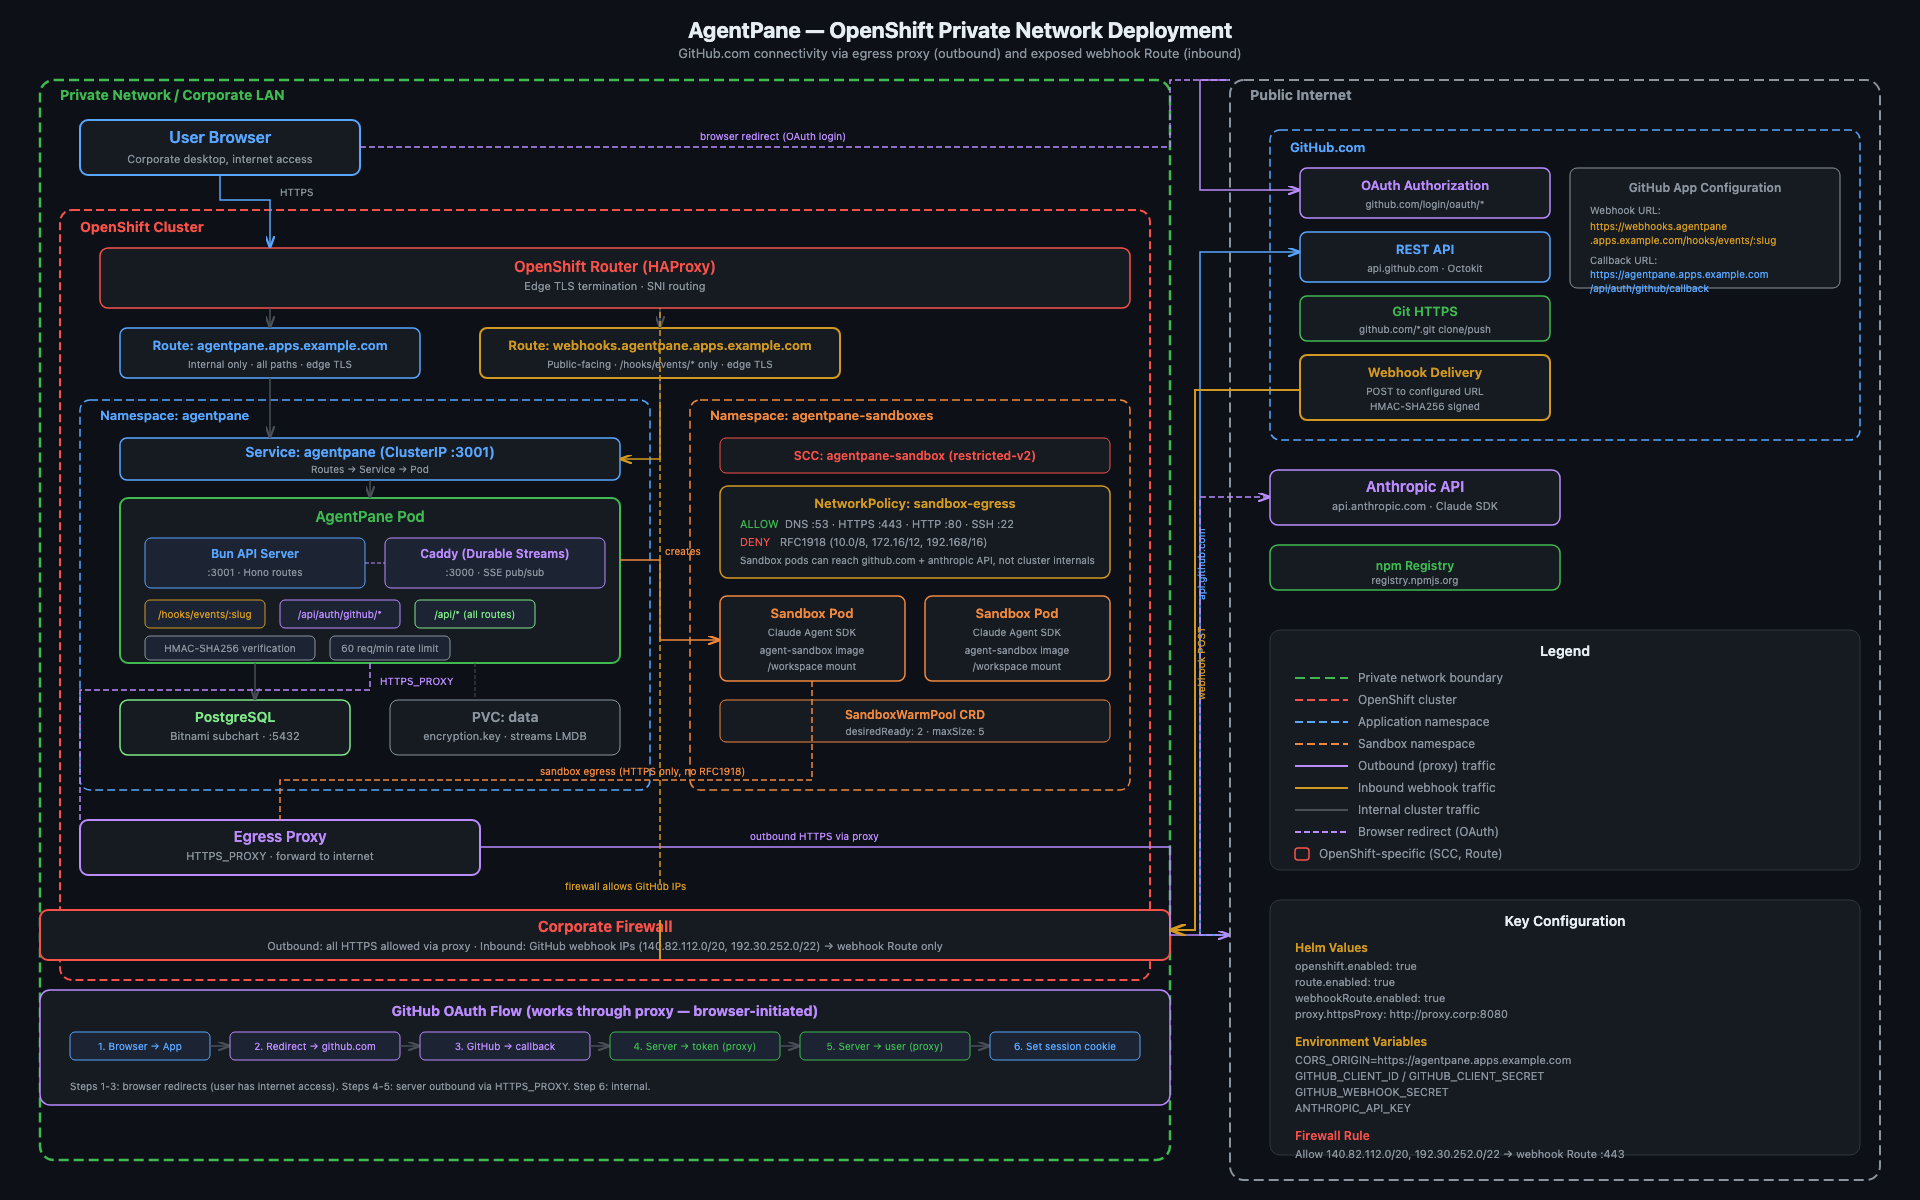
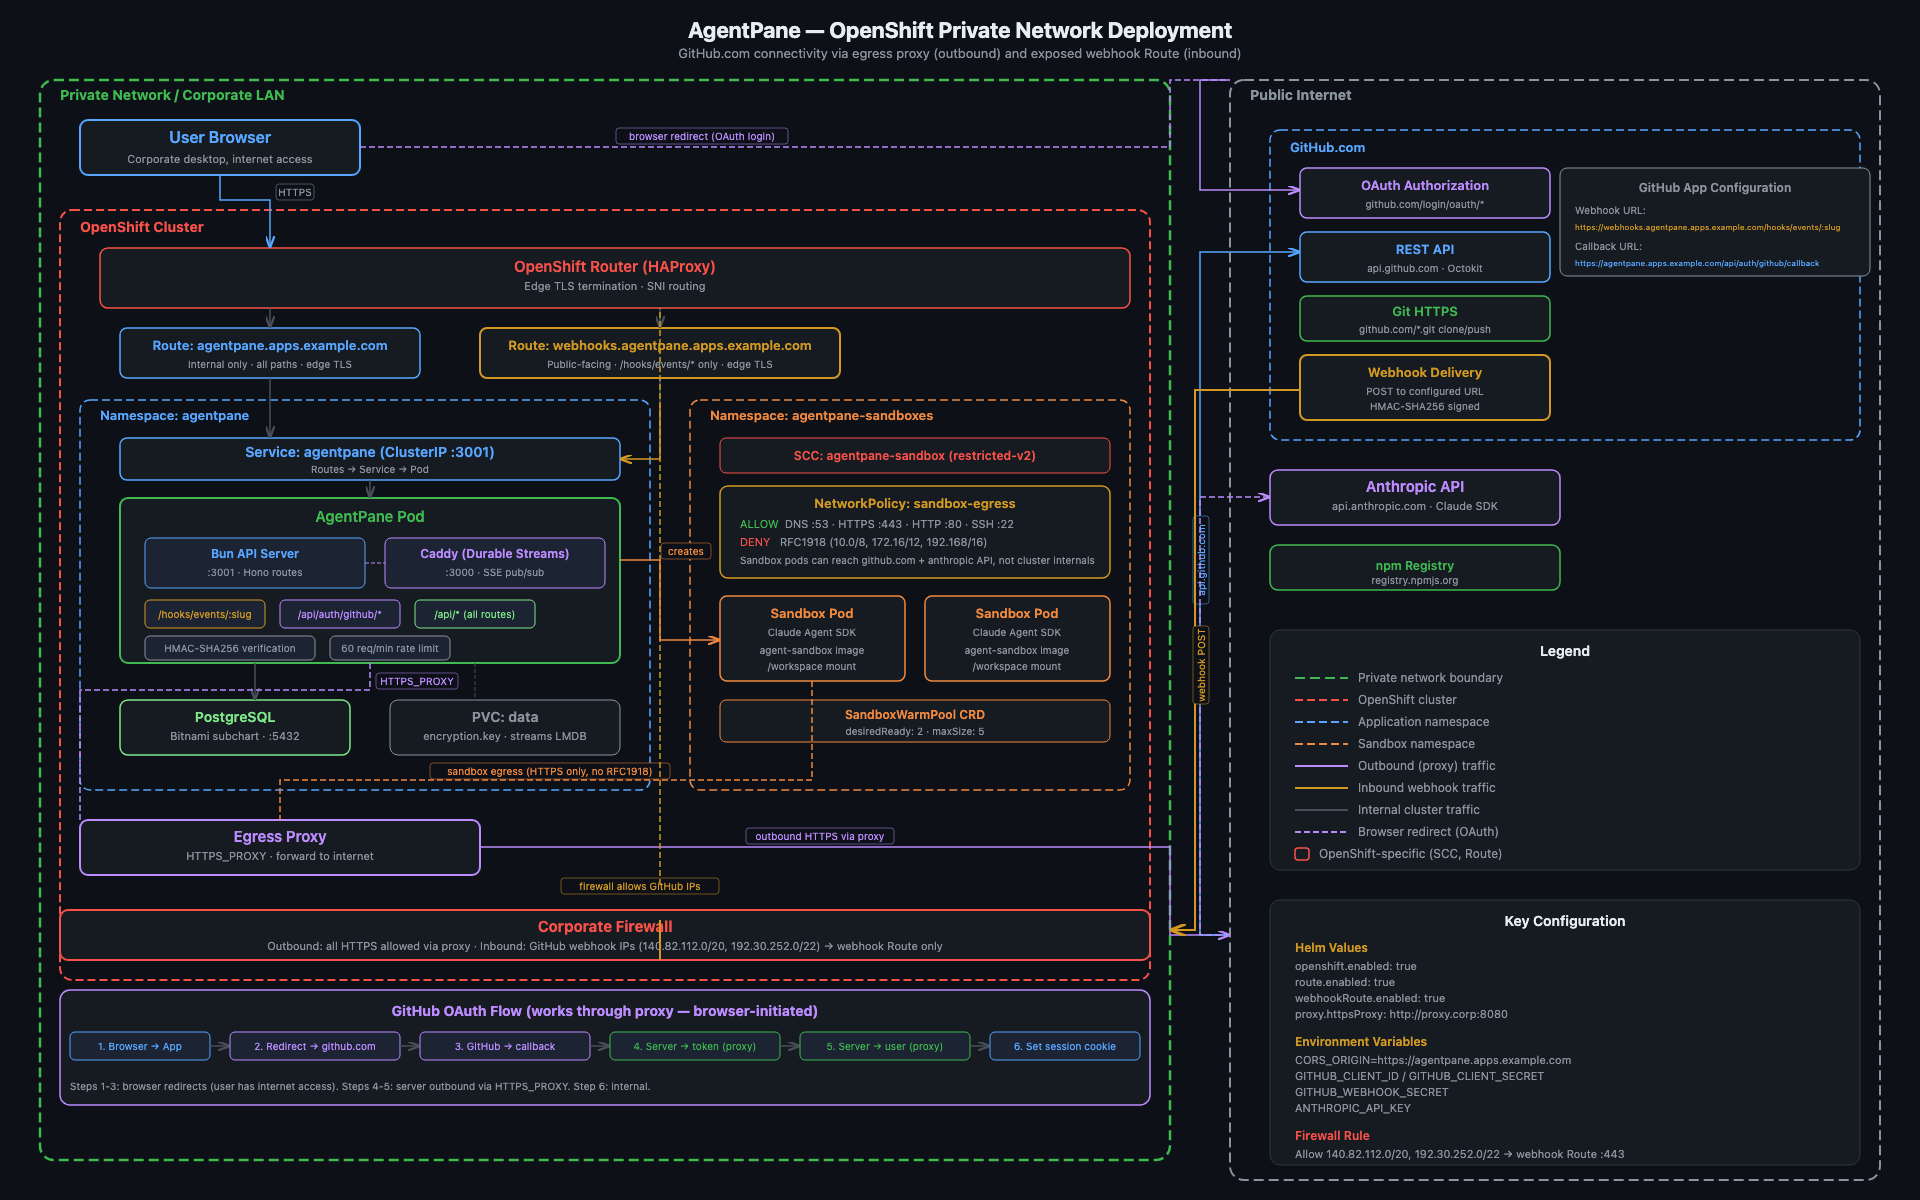
docs: update OpenShift deployment diagram and test results

diff --git a/docs/_openshift-deployment.html b/docs/_openshift-deployment.html
@@ -76,7 +76,8 @@ svg { display: block; }
 
 <!-- Connection: Browser -> Router -->
 <path d="M 220 175 L 220 200 L 270 200 L 270 248" fill="none" stroke="#58a6ff" stroke-width="1.5" marker-end="url(#arrow-blue)"/>
-<text x="280" y="196" fill="#8b949e" font-size="10">HTTPS</text>
+<rect x="276" y="184" width="38" height="16" rx="3" fill="#0d1117" stroke="#8b949e" stroke-width="0.5"/>
+<text x="295" y="196" text-anchor="middle" fill="#8b949e" font-size="10">HTTPS</text>
 
 <!-- ====== AGENTPANE NAMESPACE ====== -->
 <rect x="80" y="400" width="570" height="390" rx="10" fill="none" stroke="#58a6ff" stroke-width="1.5" stroke-dasharray="8,4"/>
@@ -180,7 +181,8 @@ svg { display: block; }
 
 <!-- Connection: AgentPane -> Sandbox Pods -->
 <path d="M 620 560 L 660 560 L 660 640 L 720 640" fill="none" stroke="#f0883e" stroke-width="1.5" marker-end="url(#arrow-coral)"/>
-<text x="665" y="555" fill="#f0883e" font-size="10">creates</text>
+<rect x="661" y="543" width="50" height="16" rx="3" fill="#0d1117" stroke="#f0883e" stroke-width="0.5"/>
+<text x="686" y="555" text-anchor="middle" fill="#f0883e" font-size="10">creates</text>
 
 <!-- ====== EGRESS PROXY ====== -->
 <rect x="80" y="820" width="400" height="55" rx="8" fill="#161b22" stroke="#bc8cff" stroke-width="2"/>
@@ -189,14 +191,16 @@ svg { display: block; }
 
 <!-- Connection: Pod -> Egress Proxy -->
 <path d="M 370 663 L 370 690 L 80 690 L 80 820" fill="none" stroke="#bc8cff" stroke-width="1.5" stroke-dasharray="6,3"/>
-<text x="380" y="685" fill="#bc8cff" font-size="10">HTTPS_PROXY</text>
+<rect x="376" y="673" width="82" height="16" rx="3" fill="#0d1117" stroke="#bc8cff" stroke-width="0.5"/>
+<text x="417" y="685" text-anchor="middle" fill="#bc8cff" font-size="10">HTTPS_PROXY</text>
 
 <!-- Connection: Sandbox -> Egress Proxy (via network policy) -->
 <path d="M 812 681 L 812 780 L 280 780 L 280 820" fill="none" stroke="#f0883e" stroke-width="1.5" stroke-dasharray="6,3"/>
-<text x="540" y="775" fill="#f0883e" font-size="10">sandbox egress (HTTPS only, no RFC1918)</text>
+<rect x="430" y="763" width="240" height="16" rx="3" fill="#0d1117" stroke="#f0883e" stroke-width="0.5"/>
+<text x="550" y="775" text-anchor="middle" fill="#f0883e" font-size="10">sandbox egress (HTTPS only, no RFC1918)</text>
 
 <!-- ==================== FIREWALL ==================== -->
-<rect x="40" y="910" width="1130" height="50" rx="8" fill="#161b22" stroke="#f85149" stroke-width="2"/>
+<rect x="60" y="910" width="1090" height="50" rx="8" fill="#161b22" stroke="#f85149" stroke-width="2"/>
 <text x="605" y="932" text-anchor="middle" fill="#f85149" font-size="15" font-weight="700">Corporate Firewall</text>
 <text x="605" y="950" text-anchor="middle" fill="#8b949e" font-size="11">Outbound: all HTTPS allowed via proxy · Inbound: GitHub webhook IPs (140.82.112.0/20, 192.30.252.0/22) → webhook Route only</text>
 
@@ -230,14 +234,12 @@ svg { display: block; }
 <text x="1425" y="410" text-anchor="middle" fill="#8b949e" font-size="10">HMAC-SHA256 signed</text>
 
 <!-- GitHub App config note -->
-<rect x="1570" y="168" width="270" height="120" rx="7" fill="#161b22" stroke="#8b949e" stroke-width="1"/>
-<text x="1705" y="192" text-anchor="middle" fill="#8b949e" font-size="12" font-weight="600">GitHub App Configuration</text>
-<text x="1590" y="214" fill="#8b949e" font-size="10">Webhook URL:</text>
-<text x="1590" y="230" fill="#d29922" font-size="10">https://webhooks.agentpane</text>
-<text x="1590" y="244" fill="#d29922" font-size="10">.apps.example.com/hooks/events/:slug</text>
-<text x="1590" y="264" fill="#8b949e" font-size="10">Callback URL:</text>
-<text x="1590" y="278" fill="#58a6ff" font-size="10">https://agentpane.apps.example.com</text>
-<text x="1590" y="292" fill="#58a6ff" font-size="10">/api/auth/github/callback</text>
+<rect x="1560" y="168" width="310" height="108" rx="7" fill="#161b22" stroke="#8b949e" stroke-width="1"/>
+<text x="1715" y="192" text-anchor="middle" fill="#8b949e" font-size="12" font-weight="600">GitHub App Configuration</text>
+<text x="1575" y="214" fill="#8b949e" font-size="10">Webhook URL:</text>
+<text x="1575" y="230" fill="#d29922" font-size="8">https://webhooks.agentpane.apps.example.com/hooks/events/:slug</text>
+<text x="1575" y="250" fill="#8b949e" font-size="10">Callback URL:</text>
+<text x="1575" y="266" fill="#58a6ff" font-size="8">https://agentpane.apps.example.com/api/auth/github/callback</text>
 
 <!-- Anthropic API -->
 <rect x="1270" y="470" width="290" height="55" rx="8" fill="#161b22" stroke="#bc8cff" stroke-width="1.5"/>
@@ -253,22 +255,30 @@ svg { display: block; }
 
 <!-- Outbound: Proxy -> GitHub API (via firewall) -->
 <path d="M 480 847 L 1170 847 L 1170 935 L 1230 935" fill="none" stroke="#bc8cff" stroke-width="1.5" marker-end="url(#arrow-purple)"/>
-<text x="750" y="840" fill="#bc8cff" font-size="10">outbound HTTPS via proxy</text>
+<rect x="746" y="828" width="148" height="16" rx="3" fill="#0d1117" stroke="#bc8cff" stroke-width="0.5"/>
+<text x="820" y="840" text-anchor="middle" fill="#bc8cff" font-size="10">outbound HTTPS via proxy</text>
 
 <!-- Outbound continues up to GitHub -->
 <path d="M 1230 935 L 1200 935 L 1200 252 L 1300 252" fill="none" stroke="#58a6ff" stroke-width="1.5" marker-end="url(#arrow-blue)"/>
-<text x="1205" y="600" fill="#58a6ff" font-size="10" transform="rotate(-90 1205 600)">api.github.com</text>
+<g transform="rotate(-90 1205 600)">
+<rect x="1201" y="588" width="88" height="16" rx="3" fill="#0d1117" stroke="#58a6ff" stroke-width="0.5"/>
+<text x="1245" y="600" text-anchor="middle" fill="#58a6ff" font-size="10">api.github.com</text>
+</g>
 
 <!-- Outbound: Proxy -> Anthropic -->
 <path d="M 1230 935 L 1200 935 L 1200 497 L 1270 497" fill="none" stroke="#bc8cff" stroke-width="1.5" stroke-dasharray="6,3" marker-end="url(#arrow-purple)"/>
 
 <!-- Inbound: GitHub Webhooks -> Firewall -> Router -> Route -> Pod -->
 <path d="M 1300 390 L 1195 390 L 1195 930 L 1170 930" fill="none" stroke="#d29922" stroke-width="2" marker-end="url(#arrow-orange)"/>
-<text x="1205" y="700" fill="#d29922" font-size="10" transform="rotate(-90 1205 700)">webhook POST</text>
+<g transform="rotate(-90 1205 700)">
+<rect x="1201" y="688" width="78" height="16" rx="3" fill="#0d1117" stroke="#d29922" stroke-width="0.5"/>
+<text x="1240" y="700" text-anchor="middle" fill="#d29922" font-size="10">webhook POST</text>
+</g>
 
 <!-- Inbound through firewall into cluster -->
 <path d="M 660 960 L 660 920" fill="none" stroke="#d29922" stroke-width="2"/>
-<text x="565" y="890" fill="#d29922" font-size="10">firewall allows GitHub IPs</text>
+<rect x="561" y="878" width="158" height="16" rx="3" fill="#0d1117" stroke="#d29922" stroke-width="0.5"/>
+<text x="640" y="890" text-anchor="middle" fill="#d29922" font-size="10">firewall allows GitHub IPs</text>
 
 <!-- Inbound up to router -->
 <path d="M 660 885 L 660 308" fill="none" stroke="#d29922" stroke-width="1.5" stroke-dasharray="6,3"/>
@@ -276,10 +286,11 @@ svg { display: block; }
 <!-- Browser -> GitHub OAuth (direct, browser has internet) -->
 <path d="M 360 147 L 1170 147 L 1170 80 L 1230 80" fill="none" stroke="#bc8cff" stroke-width="1.5" stroke-dasharray="6,3"/>
 <path d="M 1230 80 L 1200 80 L 1200 190 L 1300 190" fill="none" stroke="#bc8cff" stroke-width="1.5" marker-end="url(#arrow-purple)"/>
-<text x="700" y="140" fill="#bc8cff" font-size="10">browser redirect (OAuth login)</text>
+<rect x="616" y="128" width="172" height="16" rx="3" fill="#0d1117" stroke="#bc8cff" stroke-width="0.5"/>
+<text x="702" y="140" text-anchor="middle" fill="#bc8cff" font-size="10">browser redirect (OAuth login)</text>
 
 <!-- ==================== OAUTH FLOW (bottom) ==================== -->
-<rect x="40" y="990" width="1130" height="115" rx="10" fill="#161b22" stroke="#bc8cff" stroke-width="1.5"/>
+<rect x="60" y="990" width="1090" height="115" rx="10" fill="#161b22" stroke="#bc8cff" stroke-width="1.5"/>
 <text x="605" y="1016" text-anchor="middle" fill="#bc8cff" font-size="14" font-weight="700">GitHub OAuth Flow (works through proxy — browser-initiated)</text>
 
 <rect x="70" y="1032" width="140" height="28" rx="5" fill="#1c2333" stroke="#58a6ff" stroke-width="1"/>
@@ -344,7 +355,7 @@ svg { display: block; }
 <text x="1319" y="858" fill="#8b949e" font-size="12">OpenShift-specific (SCC, Route)</text>
 
 <!-- ==================== KEY CONFIG ==================== -->
-<rect x="1270" y="900" width="590" height="255" rx="10" fill="#161b22" stroke="#30363d" stroke-width="1"/>
+<rect x="1270" y="900" width="590" height="265" rx="10" fill="#161b22" stroke="#30363d" stroke-width="1"/>
 <text x="1565" y="926" text-anchor="middle" fill="#e6edf3" font-size="14" font-weight="600">Key Configuration</text>
 
 <text x="1295" y="952" fill="#d29922" font-size="12" font-weight="600">Helm Values</text>
